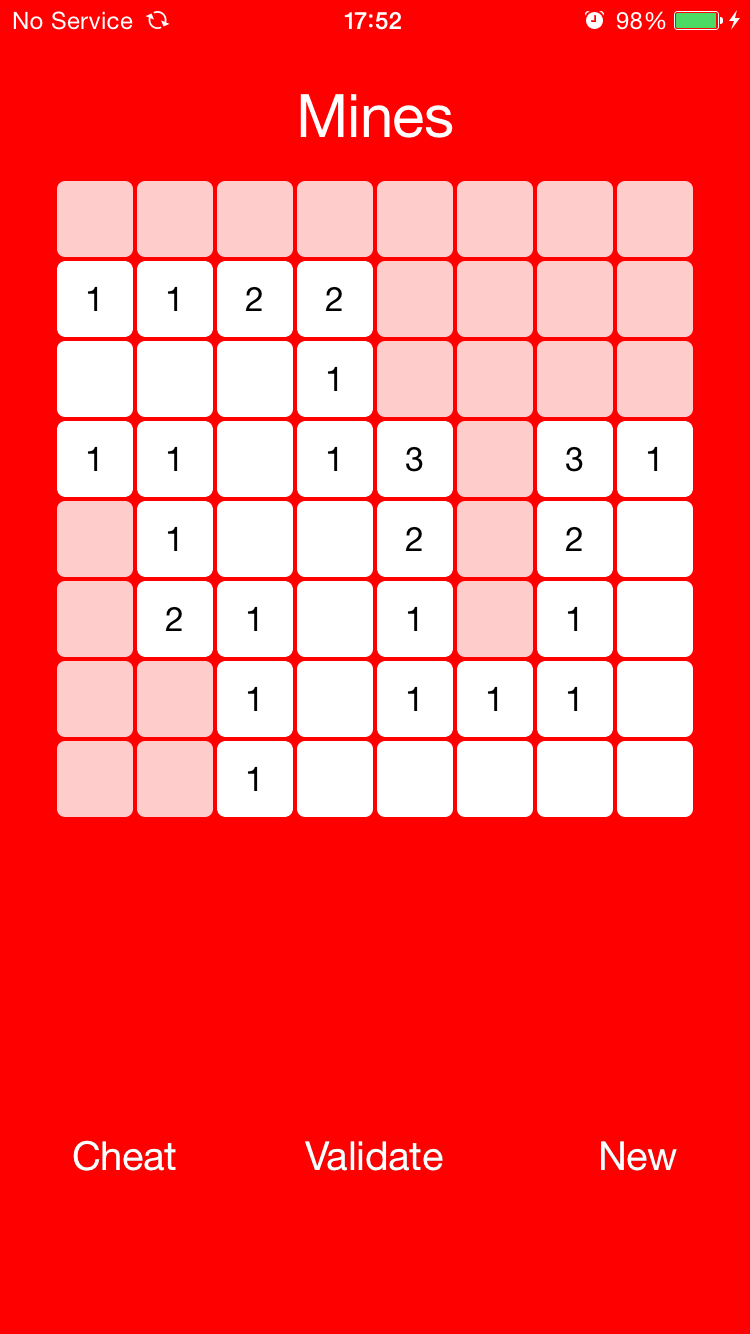
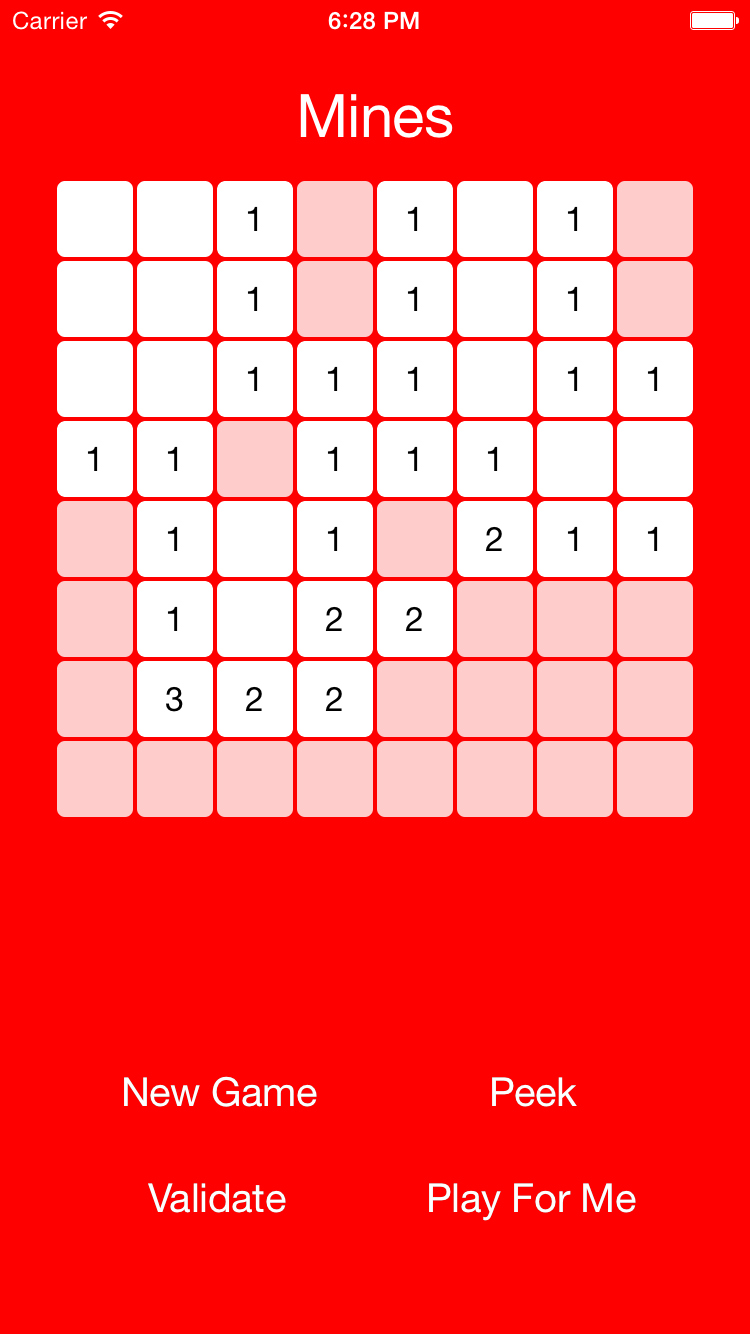
peek is not cheat

diff --git a/NCHMinimalSweeper/ViewControllers/NCHViewController.m b/NCHMinimalSweeper/ViewControllers/NCHViewController.m
@@ -18,6 +18,7 @@
 @end
 
 static NSString * const CellIdentifier  = @"NCHCell";
+static const NSTimeInterval PeekDelay = 2.0;
 
 @implementation NCHViewController
 
@@ -46,15 +47,29 @@ static NSString * const CellIdentifier  = @"NCHCell";
     [self alertForEndOfGameWithSuccess:valid];
 }
 
-- (IBAction)cheatPressed:(id)sender
+- (IBAction)playForMePressed:(id)sender
 {
-    NSSet *clearedPositions = [self.grid cheat];
+    NSSet *clearedPositions = [self.grid autoPlay];
     if (!clearedPositions) { // No more moves, we've won
         [self alertForEndOfGameWithSuccess:YES];
         return;
     }
     
     [self.collectionView reloadItemsAtIndexPaths:[NCHPosition indexPathsFromPositionSet:clearedPositions]];
+}
+
+- (IBAction)peekPressed:(id)sender
+{
+    dispatch_async(dispatch_get_main_queue(), ^{
+        NSSet *updatedPositions = [self.grid revealMines:YES];
+        [self.collectionView reloadItemsAtIndexPaths:[NCHPosition indexPathsFromPositionSet:updatedPositions]];
+    });
+    
+    dispatch_time_t popTime = dispatch_time(DISPATCH_TIME_NOW, (int64_t)(PeekDelay * NSEC_PER_SEC));
+    dispatch_after(popTime, dispatch_get_main_queue(), ^(void){
+        NSSet *updatedPositions = [self.grid revealMines:NO];
+        [self.collectionView reloadItemsAtIndexPaths:[NCHPosition indexPathsFromPositionSet:updatedPositions]];
+    });
 }
 
 #pragma mark - <UICollectionViewDataSource>

diff --git a/NCHMinimalSweeper/Models/NCHGrid.m b/NCHMinimalSweeper/Models/NCHGrid.m
@@ -57,6 +57,19 @@ static const NSUInteger MineNumber = 10;
     NSLog(@"MineField:\n%@", self);
 }
 
+- (NSSet *)revealMines:(BOOL)show
+{
+    NSMutableSet *updatedPositions = [[NSMutableSet alloc] init];
+    [self.grid enumerateObjectsUsingBlock:^(NSArray *row, NSUInteger y, BOOL *stop) {
+        [row enumerateObjectsUsingBlock:^(NCHItem *item, NSUInteger x, BOOL *stop) {
+            if (item.hasMine){
+                item.cleared = show;
+                [updatedPositions addObject:[[NCHPosition alloc] initWithX:x Y:y]];
+            }
+        }];
+    }];
+    return updatedPositions;
+}
 
 - (void)setMineAtPosition:(NCHPosition *)position
 {
@@ -123,14 +136,14 @@ static const NSUInteger MineNumber = 10;
 
 
 
-- (NSSet *)cheat
+- (NSSet *)autoPlay
 {
-    BOOL cheated = NO;
-    while(!cheated && ![self validate]) {
+    BOOL played = NO;
+    while(!played && ![self validate]) {
         NCHPosition *randomPosition = [NCHPosition randomPositionWithGridSize:GridSize];
         NCHItem *item = [self itemAtPosition:randomPosition];
         if (!item.cleared && !item.hasMine) {
-            cheated = YES;
+            played = YES;
             return [self clearItemAtPosition:randomPosition];
         }
     }

diff --git a/NCHMinimalSweeper/Models/NCHGrid.h b/NCHMinimalSweeper/Models/NCHGrid.h
@@ -16,7 +16,9 @@
 
 - (void)addMines;
 
-- (NSSet *)cheat;
+- (NSSet *)revealMines:(BOOL)show;
+
+- (NSSet *)autoPlay;
 
 - (BOOL)validate;
 
